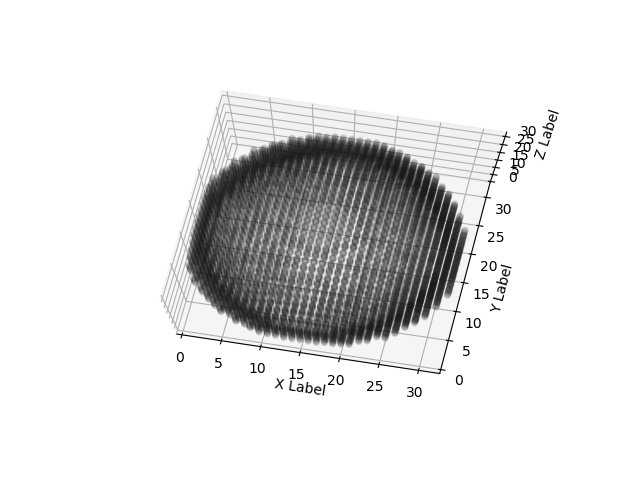
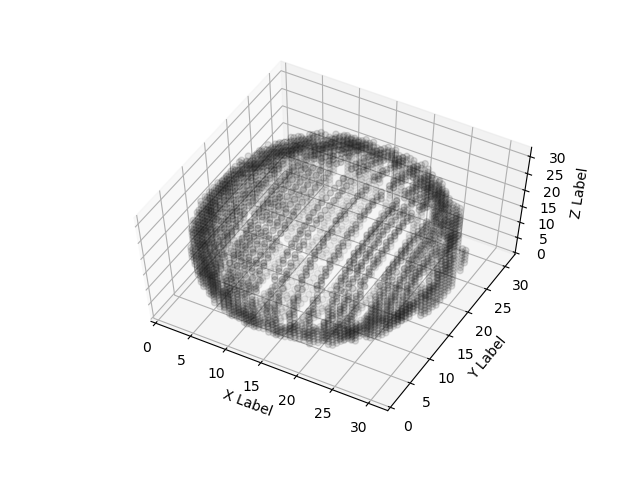
correct sphere

diff --git a/convert_data.py b/convert_data.py
@@ -269,7 +269,7 @@ if __name__ == '__main__':
     
     # sanity check on saved data
     s = 32
-    train_path = "./3d-object-recognition/data-small/train/torus_87"
+    train_path = "./3d-object-recognition/data-small/train/sphere_87"
     f = open(train_path, "rb")
     occ = np.load(f)
     xs = []
